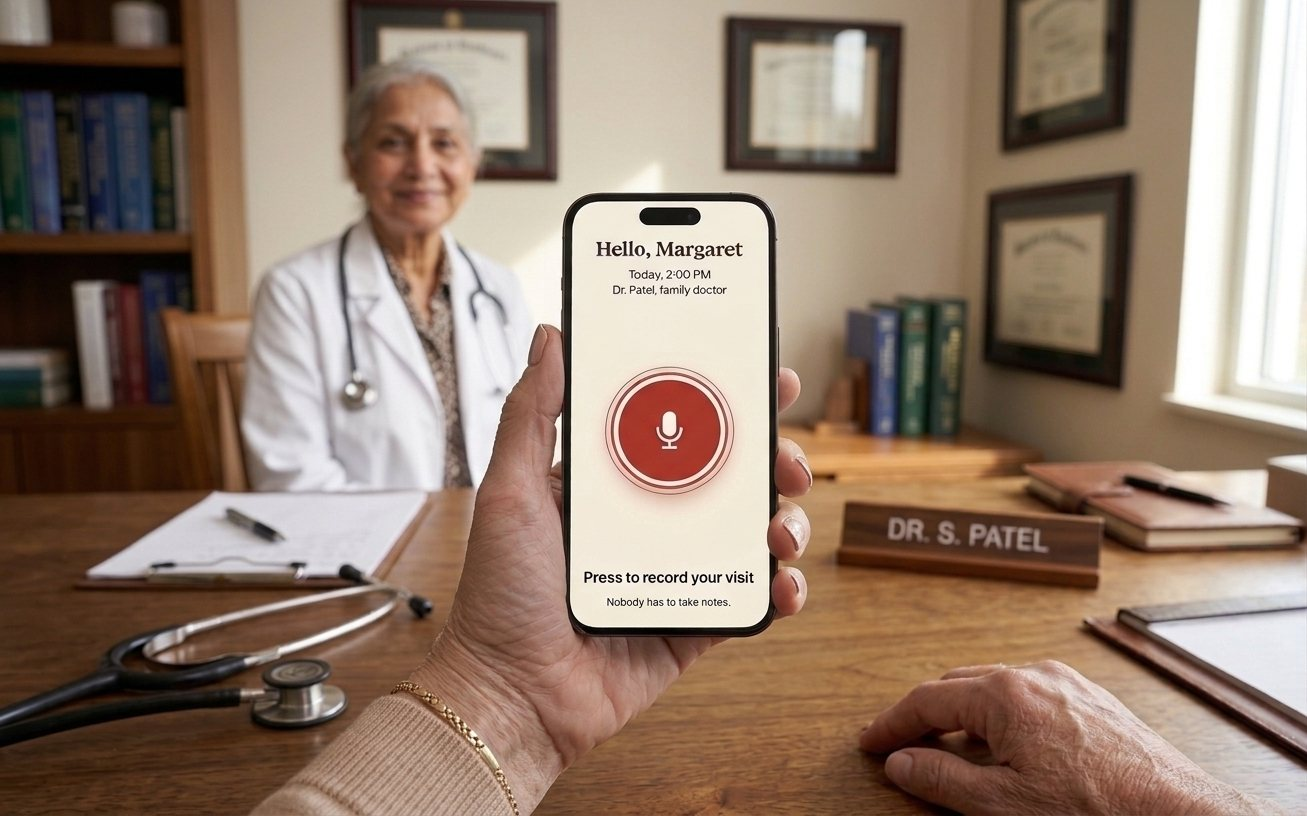
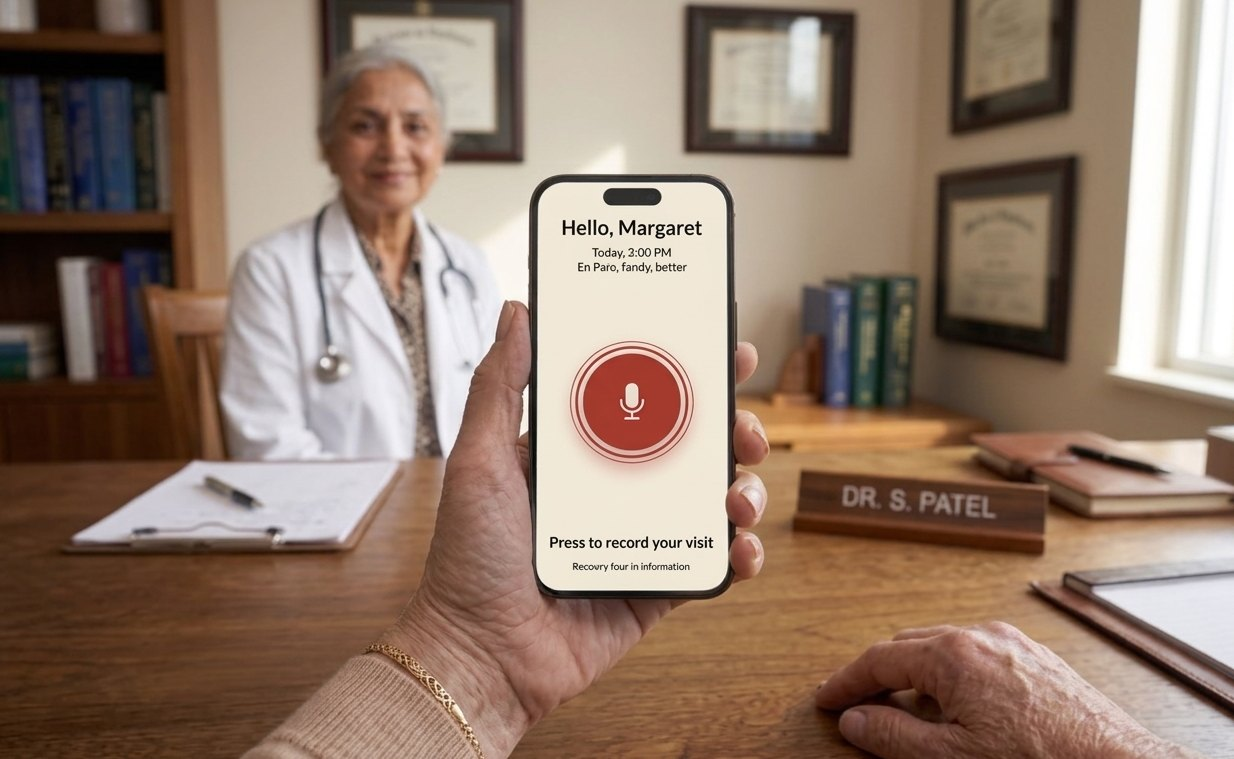
New office photo; invented clinic and street names in the example
Claude-Session: https://claude.ai/code/session_01VFpqaRZrqjWgeFR5WRGnAS

Changed region(s): [[0.0, 0.0, 1.0, 1.0], [0.4003, 0.3636, 0.4619, 0.4545], [0.5235, 0.9697, 0.5851, 1.0]]

diff --git a/index.html b/index.html
@@ -49,7 +49,7 @@ a:focus-visible, button:focus-visible { outline: 3px solid var(--toast); outline
 .scene { position: relative; height: 100vh; height: 100svh; min-height: 540px; overflow: hidden; background: #2A211B; }
 .cover { position: absolute; left: 50%; top: 50%; width: max(100vw, calc(100svh * var(--r))); height: max(100svh, calc(100vw / var(--r))); min-height: 540px; min-width: calc(540px * var(--r)); transform: translate(calc(var(--fx) * -1), calc(var(--fy) * -1)); }
 .cover img { display: block; width: 100%; height: 100%; }
-#visit .cover { --r: 1.6017; --fx: 50%; --fy: 50%; }
+#visit .cover { --r: 1.6258; --fx: 50%; --fy: 50%; }
 #plan .cover { --r: 1.8333; --fx: 50%; --fy: 50%; }
 @media (orientation: portrait) {
   #visit .cover { --fx: 51.3%; --fy: 58%; width: calc(100svh * var(--r) * 1.2); height: calc(100svh * 1.2); }
@@ -58,10 +58,10 @@ a:focus-visible, button:focus-visible { outline: 3px solid var(--toast); outline
   #plan .cover { --fx: 49.7%; --fy: 47.5%; width: calc(100svh * var(--r) * 1.3); height: calc(100svh * 1.3); }
 }
 .live { position: absolute; overflow: hidden; background: #F7F0E1; }
-#visit .live { left: 43.68%; top: 24.6%; width: 15.2%; height: 53%; border-radius: 10.4% / 4.8%; }
+#visit .live { left: 43.42%; top: 23.85%; width: 15.84%; height: 54.3%; border-radius: 11.4% / 5.4%; }
 #plan .live { left: 42.55%; top: 18.4%; width: 14.3%; height: 57.9%; border-radius: 9.5% / 4.2%; -webkit-mask-image: radial-gradient(ellipse 10.5% 5.6% at 64.5% 100.6%, transparent 97%, #000 100%); mask-image: radial-gradient(ellipse 10.5% 5.6% at 64.5% 100.6%, transparent 97%, #000 100%); }
 .design { position: absolute; left: 0; top: 0; width: 238px; transform-origin: 0 0; color: var(--tea); font-size: 14px; line-height: 1.35; }
-#visit .design { height: 520px; } #plan .design { height: 527px; }
+#visit .design { height: 506px; } #plan .design { height: 527px; }
 .island { position: absolute; top: 10px; left: 50%; width: 64px; height: 18px; margin-left: -32px; border-radius: 10px; background: #14100E; z-index: 2; }
 .notch { position: absolute; top: -1px; left: 50%; width: 126px; height: 20px; margin-left: -63px; border-radius: 0 0 13px 13px; background: #14100E; z-index: 2; }
 .st { position: absolute; inset: 0; padding: 44px 16px 16px; display: flex; flex-direction: column; align-items: center; text-align: center; gap: 9px; opacity: 0; visibility: hidden; transition: opacity .7s ease, visibility 0s linear .7s; }
@@ -199,7 +199,7 @@ button.send[disabled] { opacity: .6; cursor: default; }
 <!-- CHAPTER 1: THE VISIT -->
 <section class="scene" id="visit">
   <div class="cover">
-    <img src="images/visit.jpg" width="1307" height="816" alt="An older woman's hand holds a phone across the desk from her family doctor.">
+    <img src="images/visit.jpg" width="1234" height="759" alt="An older woman's hand holds a phone across the desk from her family doctor.">
     <div class="scrim"></div>
     <div class="live phone1" data-state="1" role="group" aria-label="Example of the Tea Biscuit record screen">
       <div class="design">
@@ -265,7 +265,7 @@ button.send[disabled] { opacity: .6; cursor: default; }
             </div>
             <div class="verified">Checked by a family physician. Last checked Nov 10.</div>
             <button type="button" class="next" data-mark></button>
-            <div class="small" style="text-align:center">Example details, not a real clinic.</div>
+            <div class="small" style="text-align:center">Example only.</div>
           </div>
         </div>
       </div>
@@ -387,9 +387,9 @@ button.send[disabled] { opacity: .6; cursor: default; }
 
   // plan phone: an action opens example details for that step; "mark" returns to the list with the step done
   var TASKS = {
-    eye: { title: 'Book an eye exam', why: 'It has been more than two years. Eye exams are covered at her age.', name: 'Example Eye Care', addr: '100 Example Street, Ottawa', tel: 'Call 613-555-0142', hours: 'Mon to Fri, 9 am to 5 pm', extra: 'Bring her health card.', mark: 'I called and booked', done: 'Booked' },
-    blood: { title: 'Get fasting blood work', why: 'To check cholesterol and blood sugar before the next visit. Follow the fasting rules on the lab form.', name: 'Example Community Lab', addr: '200 Example Avenue, Ottawa', tel: 'Book a time online', hours: 'Mon to Sat, 7 am to 3 pm', extra: 'Walk-in: yes. Bring the lab form.', mark: 'I booked a time', done: 'Booked' },
-    hearing: { title: 'Book a hearing test', why: 'Trouble following conversations. The test shows how much her hearing has changed, before talking about hearing aids.', name: 'Example Hearing Clinic', addr: '300 Example Road, Ottawa', tel: 'Call 613-555-0178', hours: 'Mon to Thu, 9 am to 4 pm', extra: 'No referral needed.', mark: 'I called and booked', done: 'Booked' }
+    eye: { title: 'Book an eye exam', why: 'It has been more than two years. Eye exams are covered at her age.', name: 'Kettle Lane Eye Care', addr: '12 Kettle Lane, Ottawa', tel: 'Call 613-555-0142', hours: 'Mon to Fri, 9 am to 5 pm', extra: 'Bring her health card.', mark: 'I called and booked', done: 'Booked' },
+    blood: { title: 'Get fasting blood work', why: 'To check cholesterol and blood sugar before the next visit. Follow the fasting rules on the lab form.', name: 'Saucer Street Community Lab', addr: '40 Saucer Street, Ottawa', tel: 'Book a time online', hours: 'Mon to Sat, 7 am to 3 pm', extra: 'Walk-in: yes. Bring the lab form.', mark: 'I booked a time', done: 'Booked' },
+    hearing: { title: 'Book a hearing test', why: 'Trouble following conversations. The test shows how much her hearing has changed, before talking about hearing aids.', name: 'Shortbread Hearing Clinic', addr: '7 Shortbread Road, Ottawa', tel: 'Call 613-555-0178', hours: 'Mon to Thu, 9 am to 4 pm', extra: 'No referral needed.', mark: 'I called and booked', done: 'Booked' }
   };
   var p2 = document.querySelector('.phone2'), listEl = p2.querySelector('[data-list]'), det = p2.querySelector('[data-detail]'), cur;
   p2.querySelectorAll('.act').forEach(function (b) {
